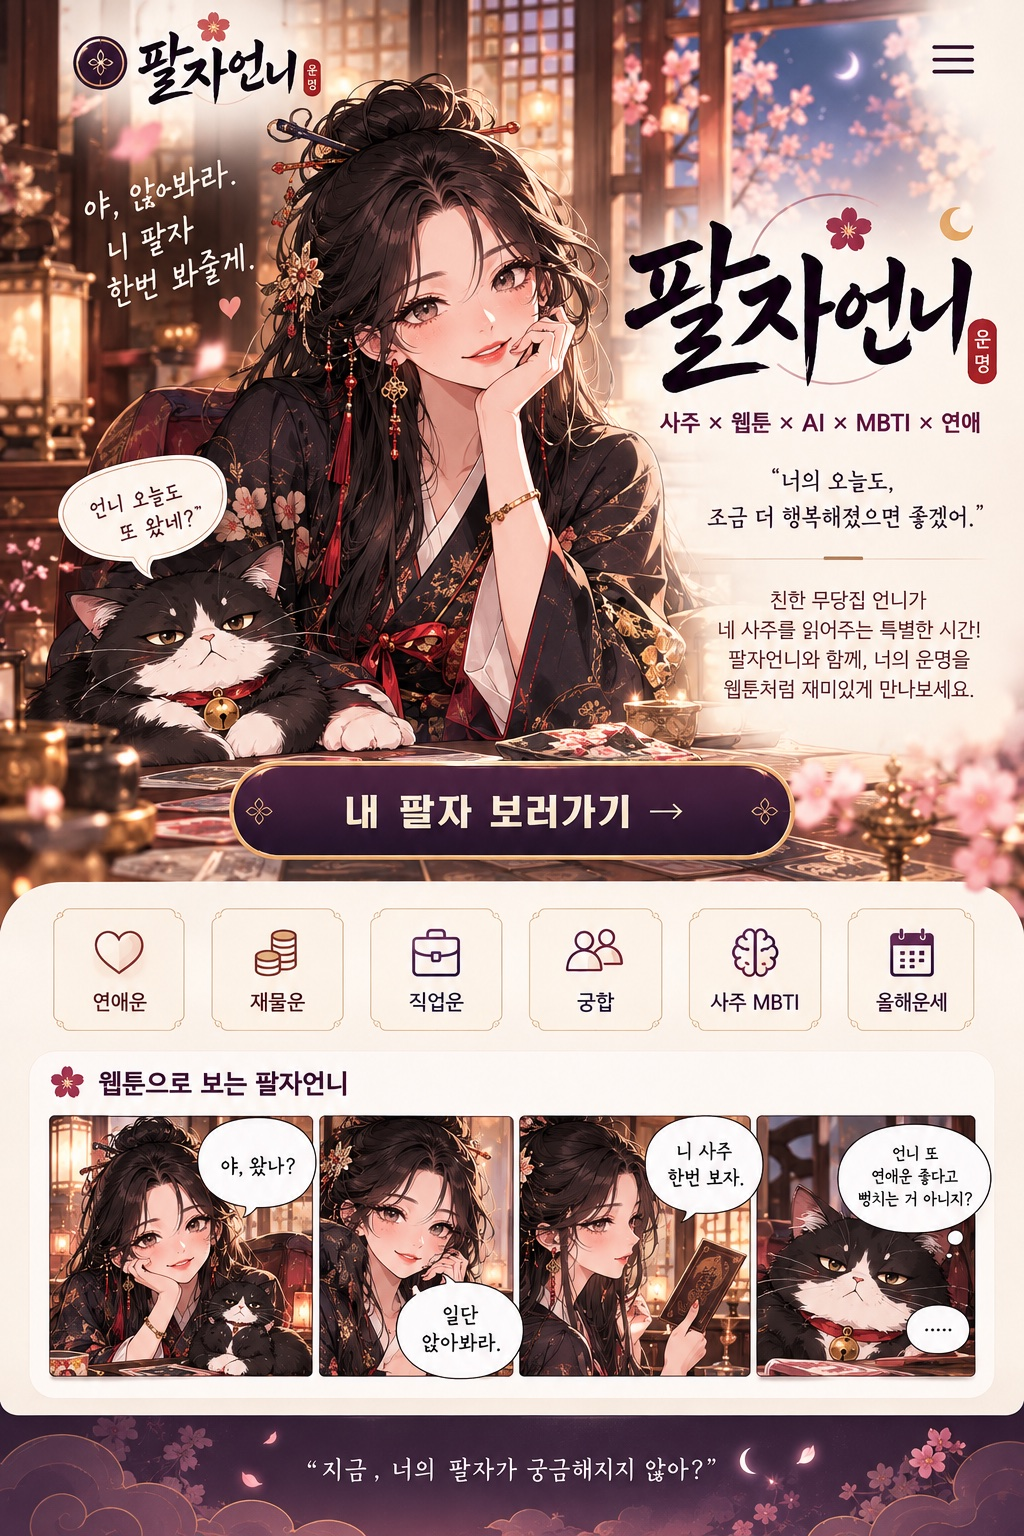
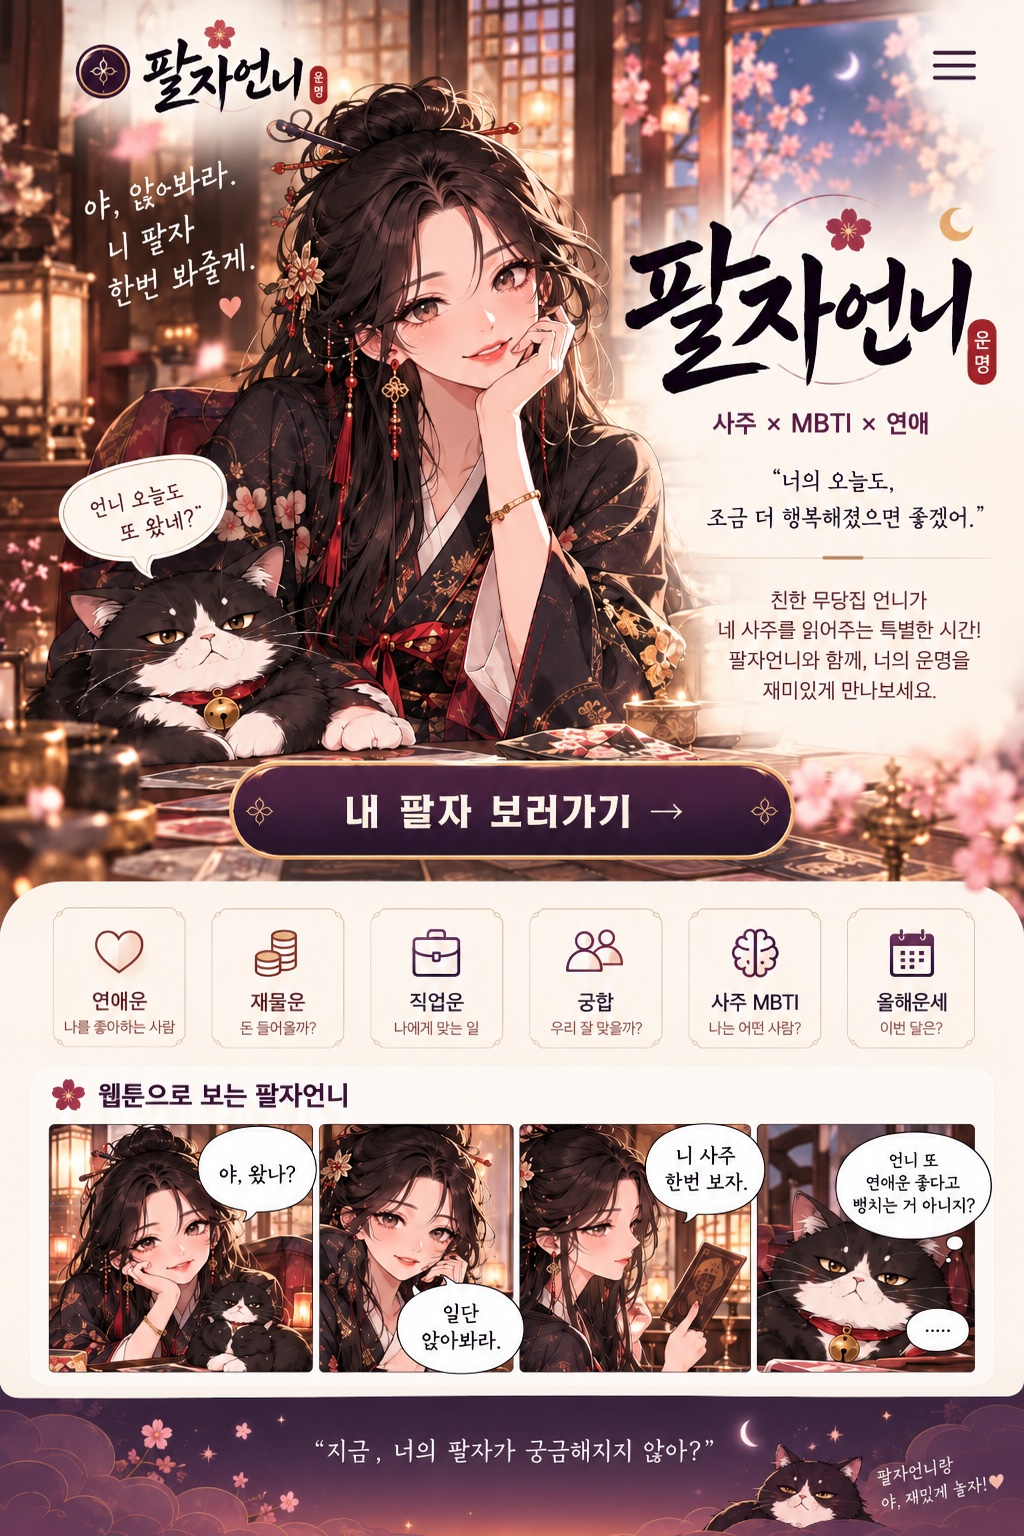
Replace Home hero with final design illustration
Swap palja-unnie-hero.jpg for the attached final art (사주 × MBTI ×
연애), keep a transparent /consult hit target on the painted CTA, and
align metadata so 웹툰/AI copy is not shown separately.

diff --git a/src/app/layout.tsx b/src/app/layout.tsx
@@ -24,7 +24,7 @@ const body = Noto_Sans_KR({
 });
 
 export const metadata: Metadata = {
-  title: "팔자언니 | 사주 × 웹툰 × AI × MBTI × 연애",
+  title: "팔자언니 | 사주 × MBTI × 연애",
   description: "야, 앉아봐라. 니 팔자 한번 봐줄게.",
   applicationName: "팔자언니",
 };
@@ -35,7 +35,11 @@ export const viewport: Viewport = {
   themeColor: "#8b1e3a",
 };
 
-export default function RootLayout({ children }: LayoutProps<"/">) {
+export default function RootLayout({
+  children,
+}: Readonly<{
+  children: React.ReactNode;
+}>) {
   return (
     <html
       lang="ko"

diff --git a/src/components/CharacterHero.tsx b/src/components/CharacterHero.tsx
@@ -39,9 +39,9 @@ export function CharacterHero() {
         aria-label="내 팔자 보러가기"
         className="absolute left-[18%] right-[18%] z-20 rounded-full focus-visible:outline focus-visible:outline-2 focus-visible:outline-offset-2 focus-visible:outline-gold"
         style={{
-          /* Painted CTA sits ~50–51.5% down the 1024×1536 art */
-          top: "49.2%",
-          height: "3.6%",
+          /* Final art CTA band ~50–51.5% down (1024×1536) */
+          top: "49.5%",
+          height: "3.2%",
         }}
       />
     </section>

diff --git a/public/characters/README.md b/public/characters/README.md
@@ -1,4 +1,5 @@
 # Character assets
 
-- `palja-unnie-hero.jpg` — full mobile home illustration (팔자언니 + 복냥이)
+- `palja-unnie-hero.jpg` — final mobile home illustration (팔자언니 + 복냥이)
 - Wired via `src/lib/character-assets.ts` (`enabled: true`)
+- Subtitle in art: `사주 × MBTI × 연애` (no separate 웹툰/AI HTML copy)
